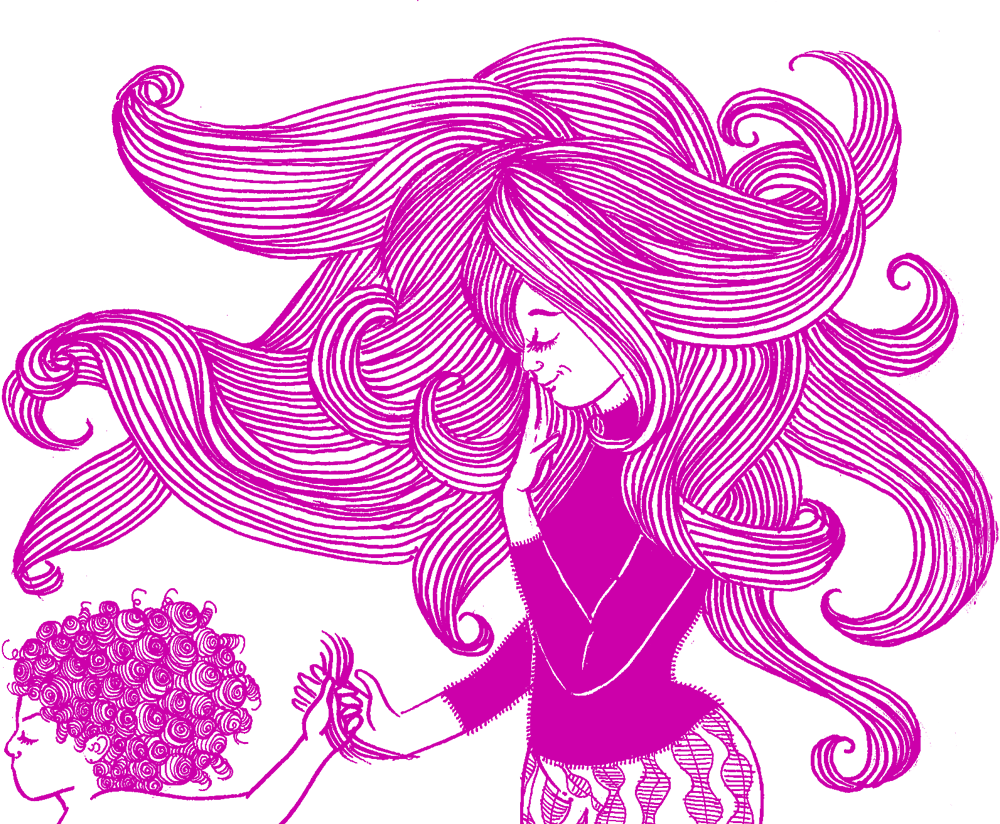
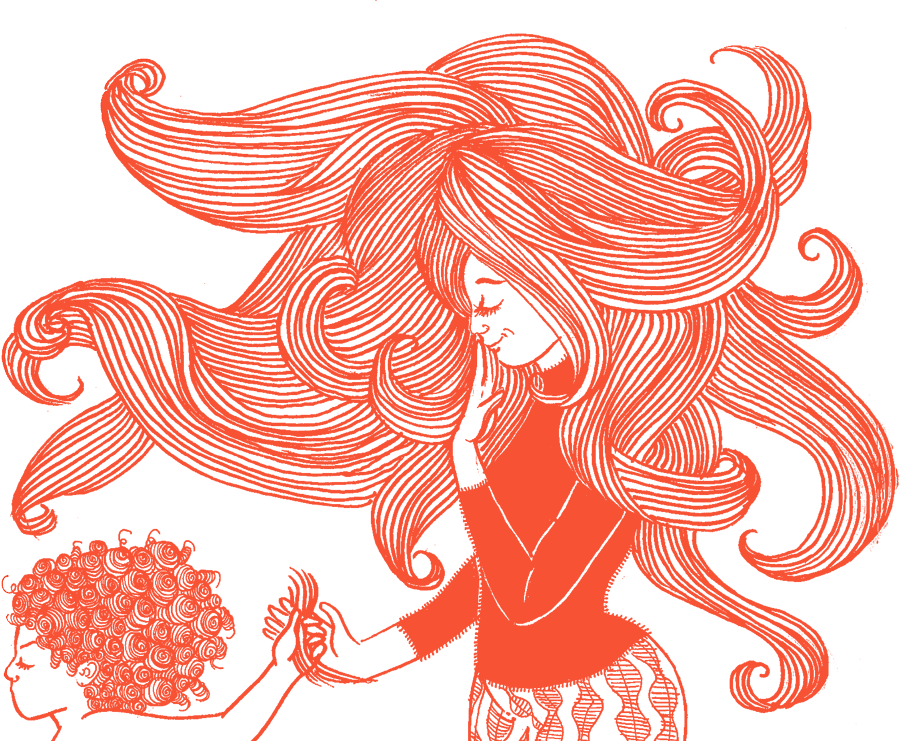
Color update, still in progress.

diff --git a/design-system/css/styles.css b/design-system/css/styles.css
@@ -33,7 +33,7 @@ body {
 
 nav {
     background-color: #ffffff;
-    border-bottom: 0.25rem solid #ffee55;
+    border-bottom: 0.25rem solid #FA7057;
     margin: 0 auto;
     padding: 0.25rem 0;
     position: fixed;
@@ -61,7 +61,7 @@ nav {
 }
 
 header {
-    background-color: #ffee55;
+    background-color: #FA7057;
     background-image: url(../images/moms-hug.png);
     background-position: top center;
     background-repeat: no-repeat;
@@ -73,15 +73,13 @@ header {
 }
 
 #styles {
-    background-color: #1166ff;
+    background-color: #FA7057;
     background-image: url(../images/moms-profile.png);
-    color: #f8f8f8;
 }
 
 #patterns {
-    background-color: #dd33bb;
+    background-color: #FA7057;
     background-image: url(../images/moms-hair.png);
-    color: #f8f8f8;
 }
 
 main {
@@ -178,11 +176,11 @@ footer {
 }
 
 ::selection {
-    background: #ffee55;
+    background: #FA7057;
   }
 
   code {
-      background-color: #1166ff;
+      background-color: #FA7057;
       color: #2f2f2f;
       display: block;
   }
@@ -240,6 +238,10 @@ img {
     #1166ff light blue
     #cc00aa pink
     #dd33bb light pink
+
+    #FA7057 accent
+    #F85235 accent WCAG 1
+    #A71E06 accent WCAG 2
 */
 
 .square {
@@ -258,19 +260,19 @@ img {
     color: #2f2f2f;
 }
 
-#yellow {
-    background-color: #ffee55;
+#accent {
+    background-color: #FA7057;
     border: solid 1px #2f2f2f;
     color: #2f2f2f;
 }
 
 #blue {
-    background-color: #0055ff;
+    background-color: #A71E06;
     color: #f8f8f8;
 }
 
 #pink {
-    background-color: #cc00aa;
+    background-color: #F85235;
     color: #f8f8f8;
 }
 
@@ -365,7 +367,7 @@ figcaption, .note {
 }
 
 .type-scale {
-    border-bottom: 2px solid #ffee55;
+    border-bottom: 2px solid #FA7057;
 }
 
 .heading {
@@ -408,15 +410,15 @@ figcaption, .note {
     transition: all 0.4s ease-in;
 }
 .button:hover, .button:focus {
-    background: #0055ff;
+    background: #A71E06;
 }
 .button:visited:hover {
-    background: #cc00aa;
+    background: #FA7057;
     color: #f8f8f8;
 }
 
 a:link {
-    background-color: #ffee55;
+    background-color: #FA7057;
     border-bottom: 0.025rem solid #2f2f2f;
     box-shadow: inset 0 -1px 0 #2f2f2f;
     color: #2f2f2f;
@@ -426,7 +428,7 @@ a:link {
     transition: all 0.4s ease-in;
 }
 a:hover, a:focus {
-    background-color: #0055ff;
+    background-color: #A71E06;
     color: #f8f8f8;
 }
 a:visited {
@@ -434,7 +436,7 @@ a:visited {
     color: #2f2f2f;
 }
 a:visited:hover {
-    background-color: #cc00aa;
+    background-color: #F85235;
     color: #f8f8f8;
 }
 
@@ -442,18 +444,18 @@ h2 a:link, h3 a:link {
     background-color: #f8f8f8;
     border-bottom: none;
     box-shadow: none;
-    color: #cc00aa;
+    color: #F85235;
     cursor: pointer;
 }
 h2 a:visited, h3 a:visited {
     background-color: #f8f8f8;
-    color: #cc00aa;
+    color: #F85235;
     cursor: pointer;
 }
 h2 a:hover, h2 a:visited:hover,
 h3 a:hover, h3 a:visited:hover {
     background-color: #f8f8f8;
-    color: #0055ff;
+    color: #A71E06;
     cursor: pointer;
 }
 
@@ -465,12 +467,12 @@ nav a:link, nav a:visited {
     line-height: 1.2;
 }
 nav a:hover, nav a:focus {
-    background-color: #0055ff;
+    background-color: #A71E06;
     color: #f8f8f8;
 }
 
 nav a:visited:hover {
-    background-color: #cc00aa;
+    background-color: #F85235;
     color: #f8f8f8;
 }
 
@@ -499,7 +501,7 @@ nav a.current {
     width: 3rem;
 }
 .logo:hover, .logo:focus, .logo:visited:hover {
-    fill: #0055ff;
+    fill: #A71E06;
 }
 
 .secondary li {

diff --git a/design-system/patterns.html b/design-system/patterns.html
@@ -14,7 +14,7 @@
         <header id="patterns">
             <div class="content-wrap">
                 <h1>Pattern library</h1>
-                <p class="subtle">Last update <time datetime="2019-11-08">November 8, 2019 &nbsp; &#10087; &nbsp; Reading time: 0:18 minutes.</time></p>
+                <p class="subtle">Last update <time datetime="2019-12-16">December 16, 2019 &nbsp; &#10087; &nbsp; Reading time: 0:18 minutes.</time></p>
             </div>
             <nav>
                 <h2 class="hidden">Navigation</h2>
@@ -46,6 +46,7 @@
                             <li><a href="#icons">Icons</a></li>
                             <li><a href="#illustrations">Illustrations</a></li>
                             <li><a href="#legends">Legends</a></li>
+                            <li><a href="#links">Links</a></li>
                             <li><a href="#lists">Lists</a></li>
                             <li><a href="#photographs">Photographs</a></li>
                             <li><a href="#progress">Progress bar</a></li>

diff --git a/design-system/index.html b/design-system/index.html
@@ -14,7 +14,7 @@
         <header>
             <div aria-labelledby="h1" class="content-wrap">
                 <h1>Brand foundations</h1>
-                <p class="subtle">Last update <time datetime="2019-10-30">October 30, 2019 &nbsp; &#10087; &nbsp; Reading time: 3:40 minutes.</time></p>
+                <p class="subtle">Last update <time datetime="2019-12-16">December 16, 2019 &nbsp; &#10087; &nbsp; Reading time: 3:40 minutes.</time></p>
             </div>
             <nav>
                 <h2 class="hidden">Main navigation</h2>

diff --git a/design-system/styles.html b/design-system/styles.html
@@ -14,7 +14,7 @@
         <header id="styles">
             <div class="content-wrap">
                 <h1>Style guide and assets</h1>
-                <p class="subtle">Last update <time datetime="2019-10-30">October 30, 2019 &nbsp; &#10087; &nbsp; Reading time: 2:18 minutes.</time></p>
+                <p class="subtle">Last update <time datetime="2019-12-16">December 16, 2019 &nbsp; &#10087; &nbsp; Reading time: 2:18 minutes.</time></p>
             </div>
             <nav>
                 <h2 class="hidden">Navigation</h2>
